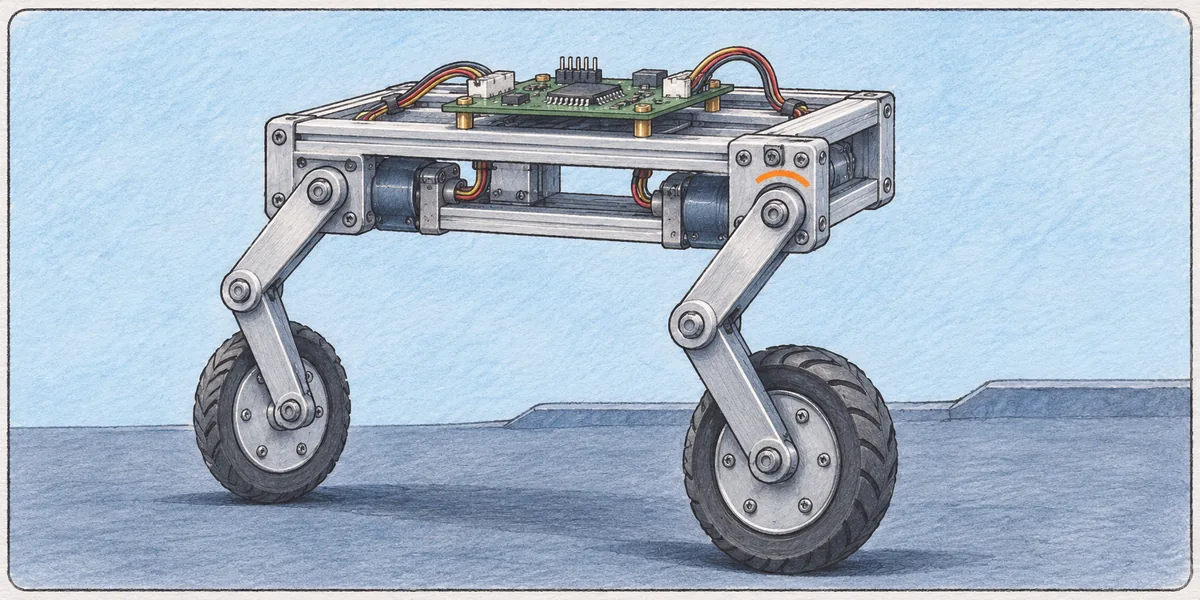
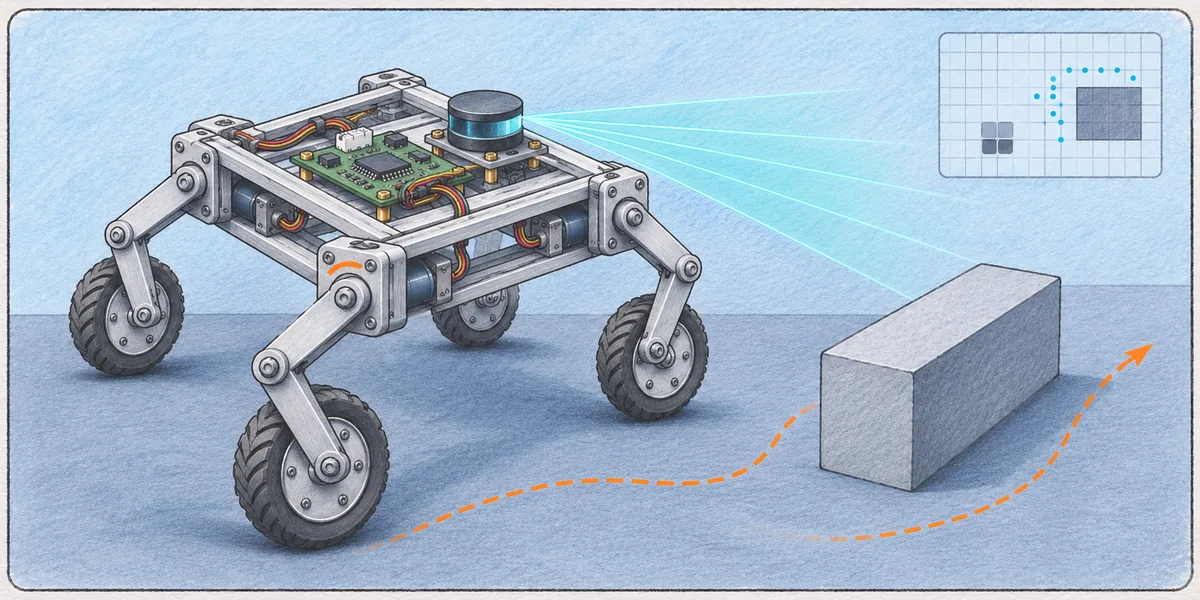
Show the four-wheel-leg SLAM illustration and English race title

diff --git a/teaching/index.html b/teaching/index.html
@@ -9,7 +9,7 @@
     <link rel="icon" href="../assets/sensedex-mark-small.png" type="image/png">
     <link rel="apple-touch-icon" href="../assets/sensedex-mark-small.png">
     <link rel="stylesheet" href="../assets/styles.css?v=20261124-teaching-catalog">
-    <script src="../assets/main.js?v=20261124-smart-car-competition" defer></script>
+    <script src="../assets/main.js?v=20261124-smart-car-slam" defer></script>
     <script src="../assets/visits.js" defer></script>
   </head>
   <body>
@@ -110,10 +110,9 @@
             <article id="national-intelligent-car-race" class="publication-row" aria-labelledby="national-intelligent-car-race-heading">
               <div class="publication-details">
                 <h3 id="national-intelligent-car-race-heading" class="publication-title">National University Students Intelligent Car Race</h3>
-                <p lang="zh-CN">全国大学生智能汽车竞赛</p>
               </div>
               <div class="publication-media">
-                <img src="../assets/teaching/smart-car-wheeled-leg-illustration.webp" alt="Hand-drawn illustration of a wheel-legged intelligent car with two articulated legs ending in wheels." width="1200" height="600" loading="lazy" decoding="async">
+                <img src="../assets/teaching/smart-car-wheeled-leg-illustration.webp?v=20261124-slam" alt="Conceptual illustration of a four-legged intelligent car with a wheel on each leg, lidar mapping, and an obstacle-avoidance path." width="1200" height="600" loading="lazy" decoding="async">
               </div>
             </article>
           </li>

diff --git a/data/competitions.html b/data/competitions.html
@@ -20,10 +20,9 @@
             <article id="national-intelligent-car-race" class="publication-row" aria-labelledby="national-intelligent-car-race-heading">
               <div class="publication-details">
                 <h3 id="national-intelligent-car-race-heading" class="publication-title">National University Students Intelligent Car Race</h3>
-                <p lang="zh-CN">全国大学生智能汽车竞赛</p>
               </div>
               <div class="publication-media">
-                <img src="../assets/teaching/smart-car-wheeled-leg-illustration.webp" alt="Hand-drawn illustration of a wheel-legged intelligent car with two articulated legs ending in wheels." width="1200" height="600" loading="lazy" decoding="async">
+                <img src="../assets/teaching/smart-car-wheeled-leg-illustration.webp?v=20261124-slam" alt="Conceptual illustration of a four-legged intelligent car with a wheel on each leg, lidar mapping, and an obstacle-avoidance path." width="1200" height="600" loading="lazy" decoding="async">
               </div>
             </article>
           </li>

diff --git a/teaching/robotics-applications/index.html b/teaching/robotics-applications/index.html
@@ -10,7 +10,7 @@
     <link rel="apple-touch-icon" href="../../assets/sensedex-mark-small.png">
     <link rel="stylesheet" href="../../assets/styles.css?v=20261124-teaching-catalog">
     <link rel="stylesheet" href="../../assets/course-syllabus.css?v=20261124-course-layout">
-    <script src="../../assets/main.js?v=20261124-smart-car-competition" defer></script>
+    <script src="../../assets/main.js?v=20261124-smart-car-slam" defer></script>
     <script src="../../assets/visits.js" defer></script>
   </head>
   <body>

diff --git a/index.html b/index.html
@@ -9,7 +9,7 @@
     <link rel="icon" href="./assets/sensedex-mark-small.png" type="image/png">
     <link rel="apple-touch-icon" href="./assets/sensedex-mark-small.png">
     <link rel="stylesheet" href="./assets/styles.css?v=20261124-bio-link">
-    <script src="./assets/main.js?v=20261124-smart-car-competition" defer></script>
+    <script src="./assets/main.js?v=20261124-smart-car-slam" defer></script>
     <script src="./assets/visits.js?v=20261114-teaching-competitions" defer></script>
   </head>
   <body>

diff --git a/teaching/automatic-control/index.html b/teaching/automatic-control/index.html
@@ -9,7 +9,7 @@
     <link rel="icon" href="../../assets/sensedex-mark-small.png" type="image/png">
     <link rel="apple-touch-icon" href="../../assets/sensedex-mark-small.png">
     <link rel="stylesheet" href="../../assets/styles.css?v=20261124-teaching-catalog">
-    <script src="../../assets/main.js?v=20261124-smart-car-competition" defer></script>
+    <script src="../../assets/main.js?v=20261124-smart-car-slam" defer></script>
     <script src="../../assets/visits.js" defer></script>
   </head>
   <body>

diff --git a/teaching/machine-learning/index.html b/teaching/machine-learning/index.html
@@ -9,7 +9,7 @@
     <link rel="icon" href="../../assets/sensedex-mark-small.png" type="image/png">
     <link rel="apple-touch-icon" href="../../assets/sensedex-mark-small.png">
     <link rel="stylesheet" href="../../assets/styles.css?v=20261124-teaching-catalog">
-    <script src="../../assets/main.js?v=20261124-smart-car-competition" defer></script>
+    <script src="../../assets/main.js?v=20261124-smart-car-slam" defer></script>
     <script src="../../assets/visits.js" defer></script>
   </head>
   <body>

diff --git a/teaching/robot-vision/index.html b/teaching/robot-vision/index.html
@@ -9,7 +9,7 @@
     <link rel="icon" href="../../assets/sensedex-mark-small.png" type="image/png">
     <link rel="apple-touch-icon" href="../../assets/sensedex-mark-small.png">
     <link rel="stylesheet" href="../../assets/styles.css?v=20261124-teaching-catalog">
-    <script src="../../assets/main.js?v=20261124-smart-car-competition" defer></script>
+    <script src="../../assets/main.js?v=20261124-smart-car-slam" defer></script>
     <script src="../../assets/visits.js" defer></script>
   </head>
   <body>

diff --git a/publications/active-surface/index.html b/publications/active-surface/index.html
@@ -9,7 +9,7 @@
     <link rel="icon" href="../../assets/sensedex-mark-small.png" type="image/png">
     <link rel="apple-touch-icon" href="../../assets/sensedex-mark-small.png">
     <link rel="stylesheet" href="../../assets/styles.css?v=20261120-paper-resources">
-    <script src="../../assets/main.js?v=20261124-smart-car-competition" defer></script>
+    <script src="../../assets/main.js?v=20261124-smart-car-slam" defer></script>
     <script src="../../assets/visits.js" defer></script>
   </head>
   <body>

diff --git a/publications/activespn/index.html b/publications/activespn/index.html
@@ -9,7 +9,7 @@
     <link rel="icon" href="../../assets/sensedex-mark-small.png" type="image/png">
     <link rel="apple-touch-icon" href="../../assets/sensedex-mark-small.png">
     <link rel="stylesheet" href="../../assets/styles.css?v=20261120-paper-resources">
-    <script src="../../assets/main.js?v=20261124-smart-car-competition" defer></script>
+    <script src="../../assets/main.js?v=20261124-smart-car-slam" defer></script>
     <script src="../../assets/visits.js" defer></script>
   </head>
   <body>

diff --git a/publications/activespn2/index.html b/publications/activespn2/index.html
@@ -9,7 +9,7 @@
     <link rel="icon" href="../../assets/sensedex-mark-small.png" type="image/png">
     <link rel="apple-touch-icon" href="../../assets/sensedex-mark-small.png">
     <link rel="stylesheet" href="../../assets/styles.css?v=20261120-paper-resources">
-    <script src="../../assets/main.js?v=20261124-smart-car-competition" defer></script>
+    <script src="../../assets/main.js?v=20261124-smart-car-slam" defer></script>
     <script src="../../assets/visits.js" defer></script>
   </head>
   <body>

diff --git a/publications/adap/index.html b/publications/adap/index.html
@@ -9,7 +9,7 @@
     <link rel="icon" href="../../assets/sensedex-mark-small.png" type="image/png">
     <link rel="apple-touch-icon" href="../../assets/sensedex-mark-small.png">
     <link rel="stylesheet" href="../../assets/styles.css?v=20261120-paper-resources">
-    <script src="../../assets/main.js?v=20261124-smart-car-competition" defer></script>
+    <script src="../../assets/main.js?v=20261124-smart-car-slam" defer></script>
     <script src="../../assets/visits.js" defer></script>
   </head>
   <body>

diff --git a/publications/flip-and-flap/index.html b/publications/flip-and-flap/index.html
@@ -9,7 +9,7 @@
     <link rel="icon" href="../../assets/sensedex-mark-small.png" type="image/png">
     <link rel="apple-touch-icon" href="../../assets/sensedex-mark-small.png">
     <link rel="stylesheet" href="../../assets/styles.css?v=20261120-paper-resources">
-    <script src="../../assets/main.js?v=20261124-smart-car-competition" defer></script>
+    <script src="../../assets/main.js?v=20261124-smart-car-slam" defer></script>
     <script src="../../assets/visits.js" defer></script>
   </head>
   <body>
